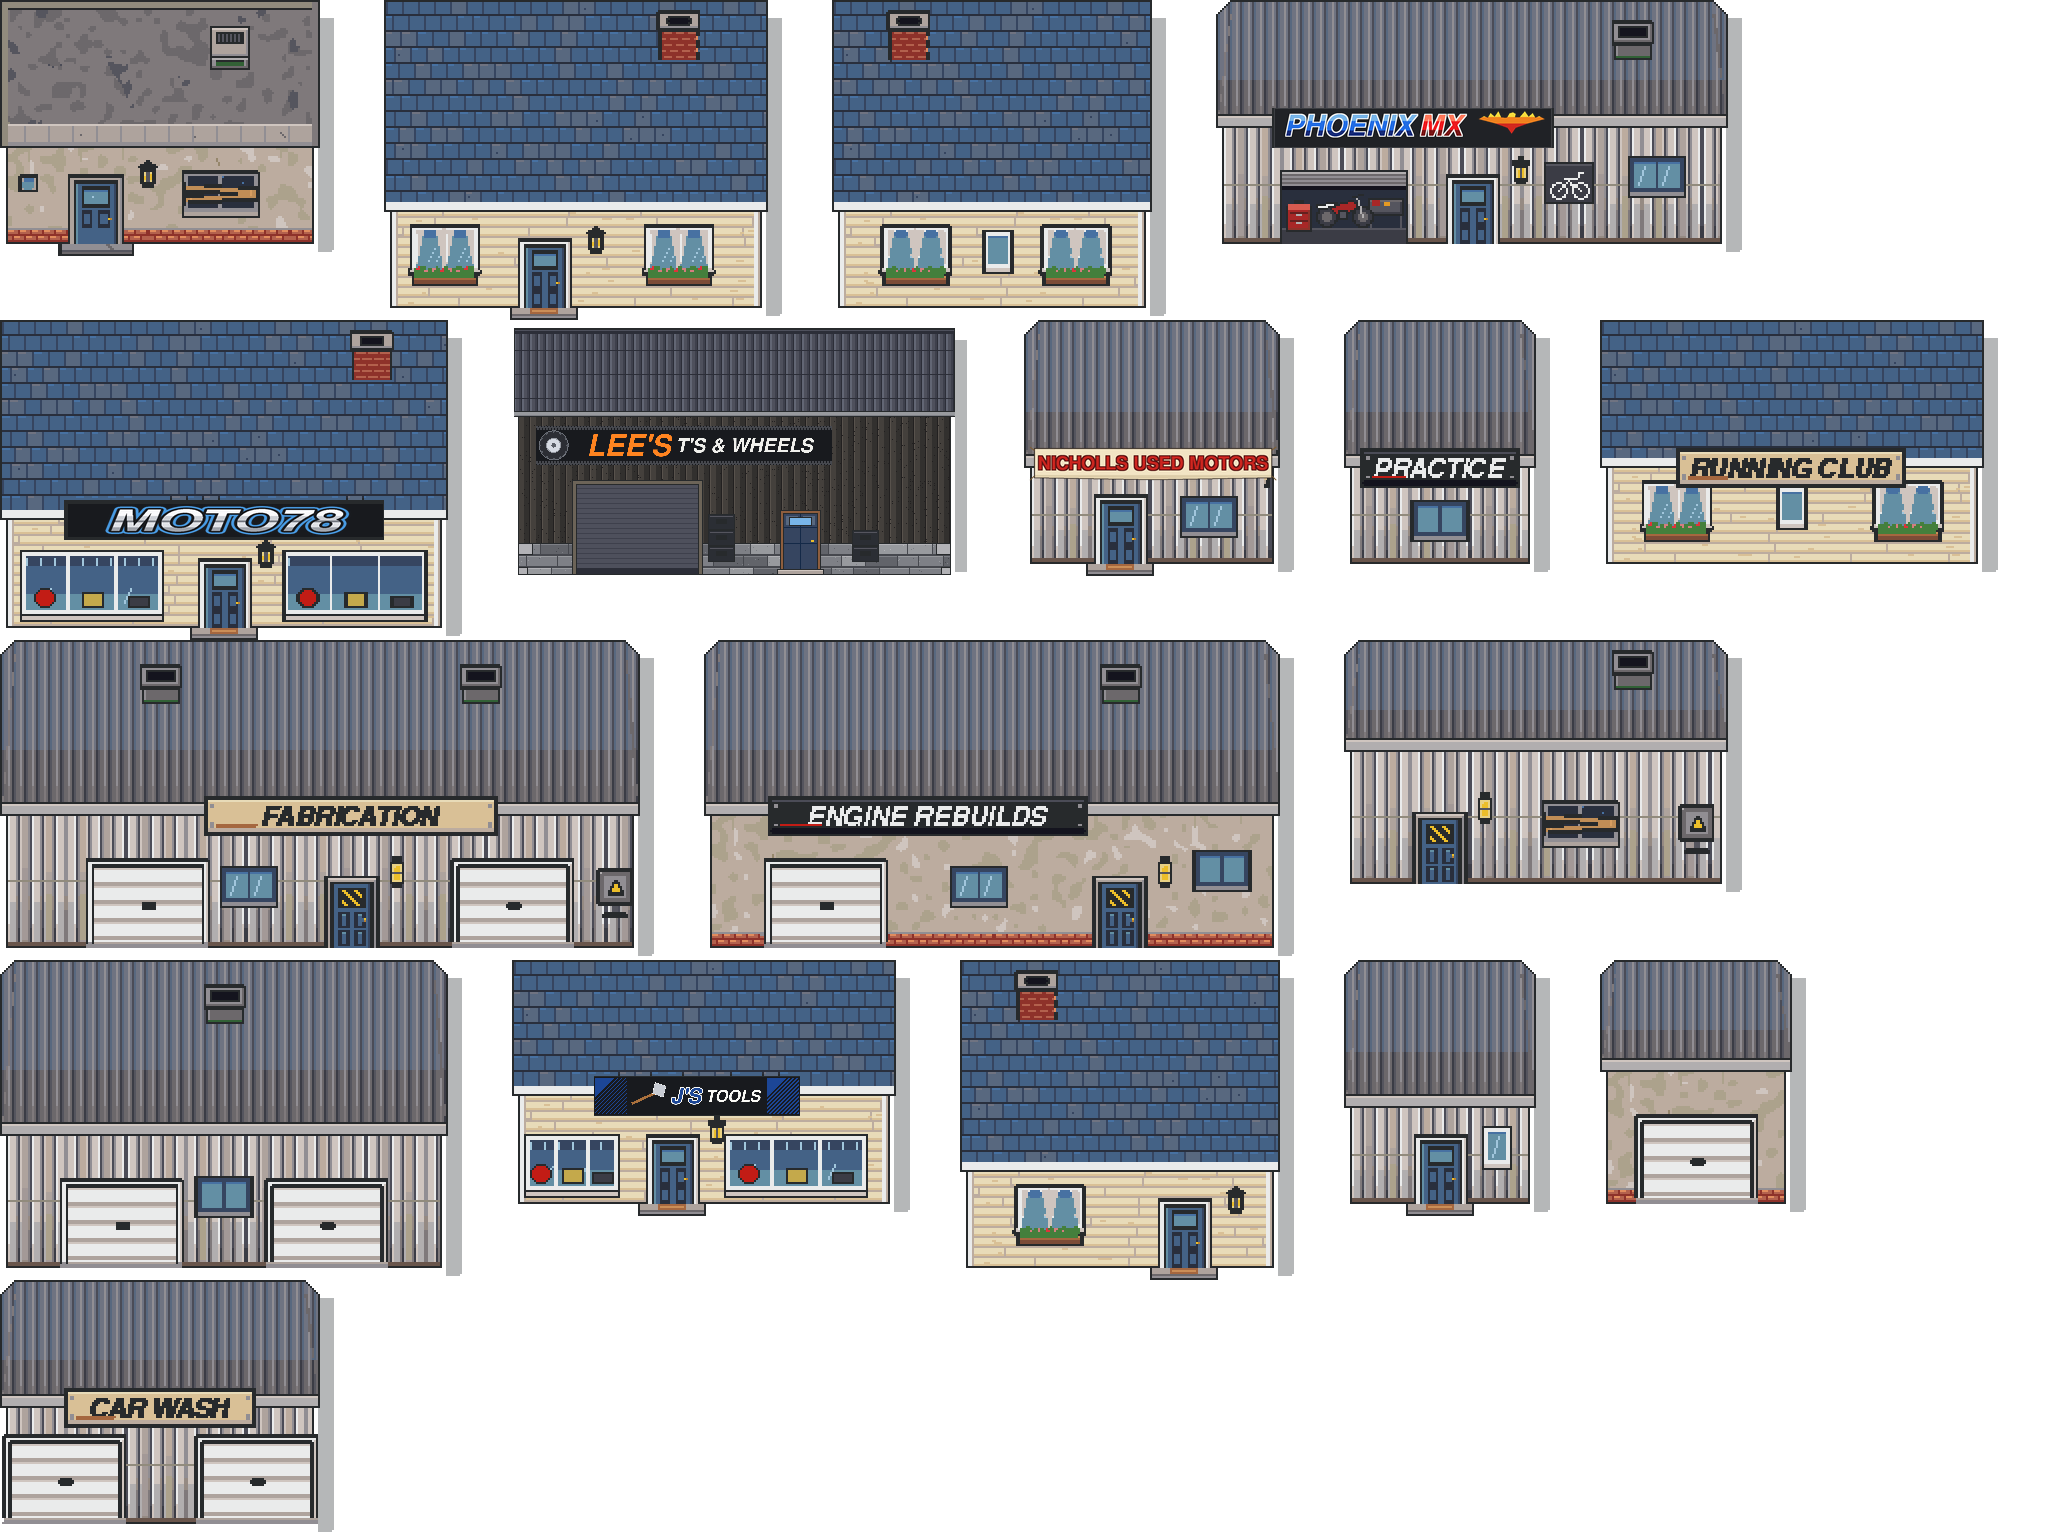
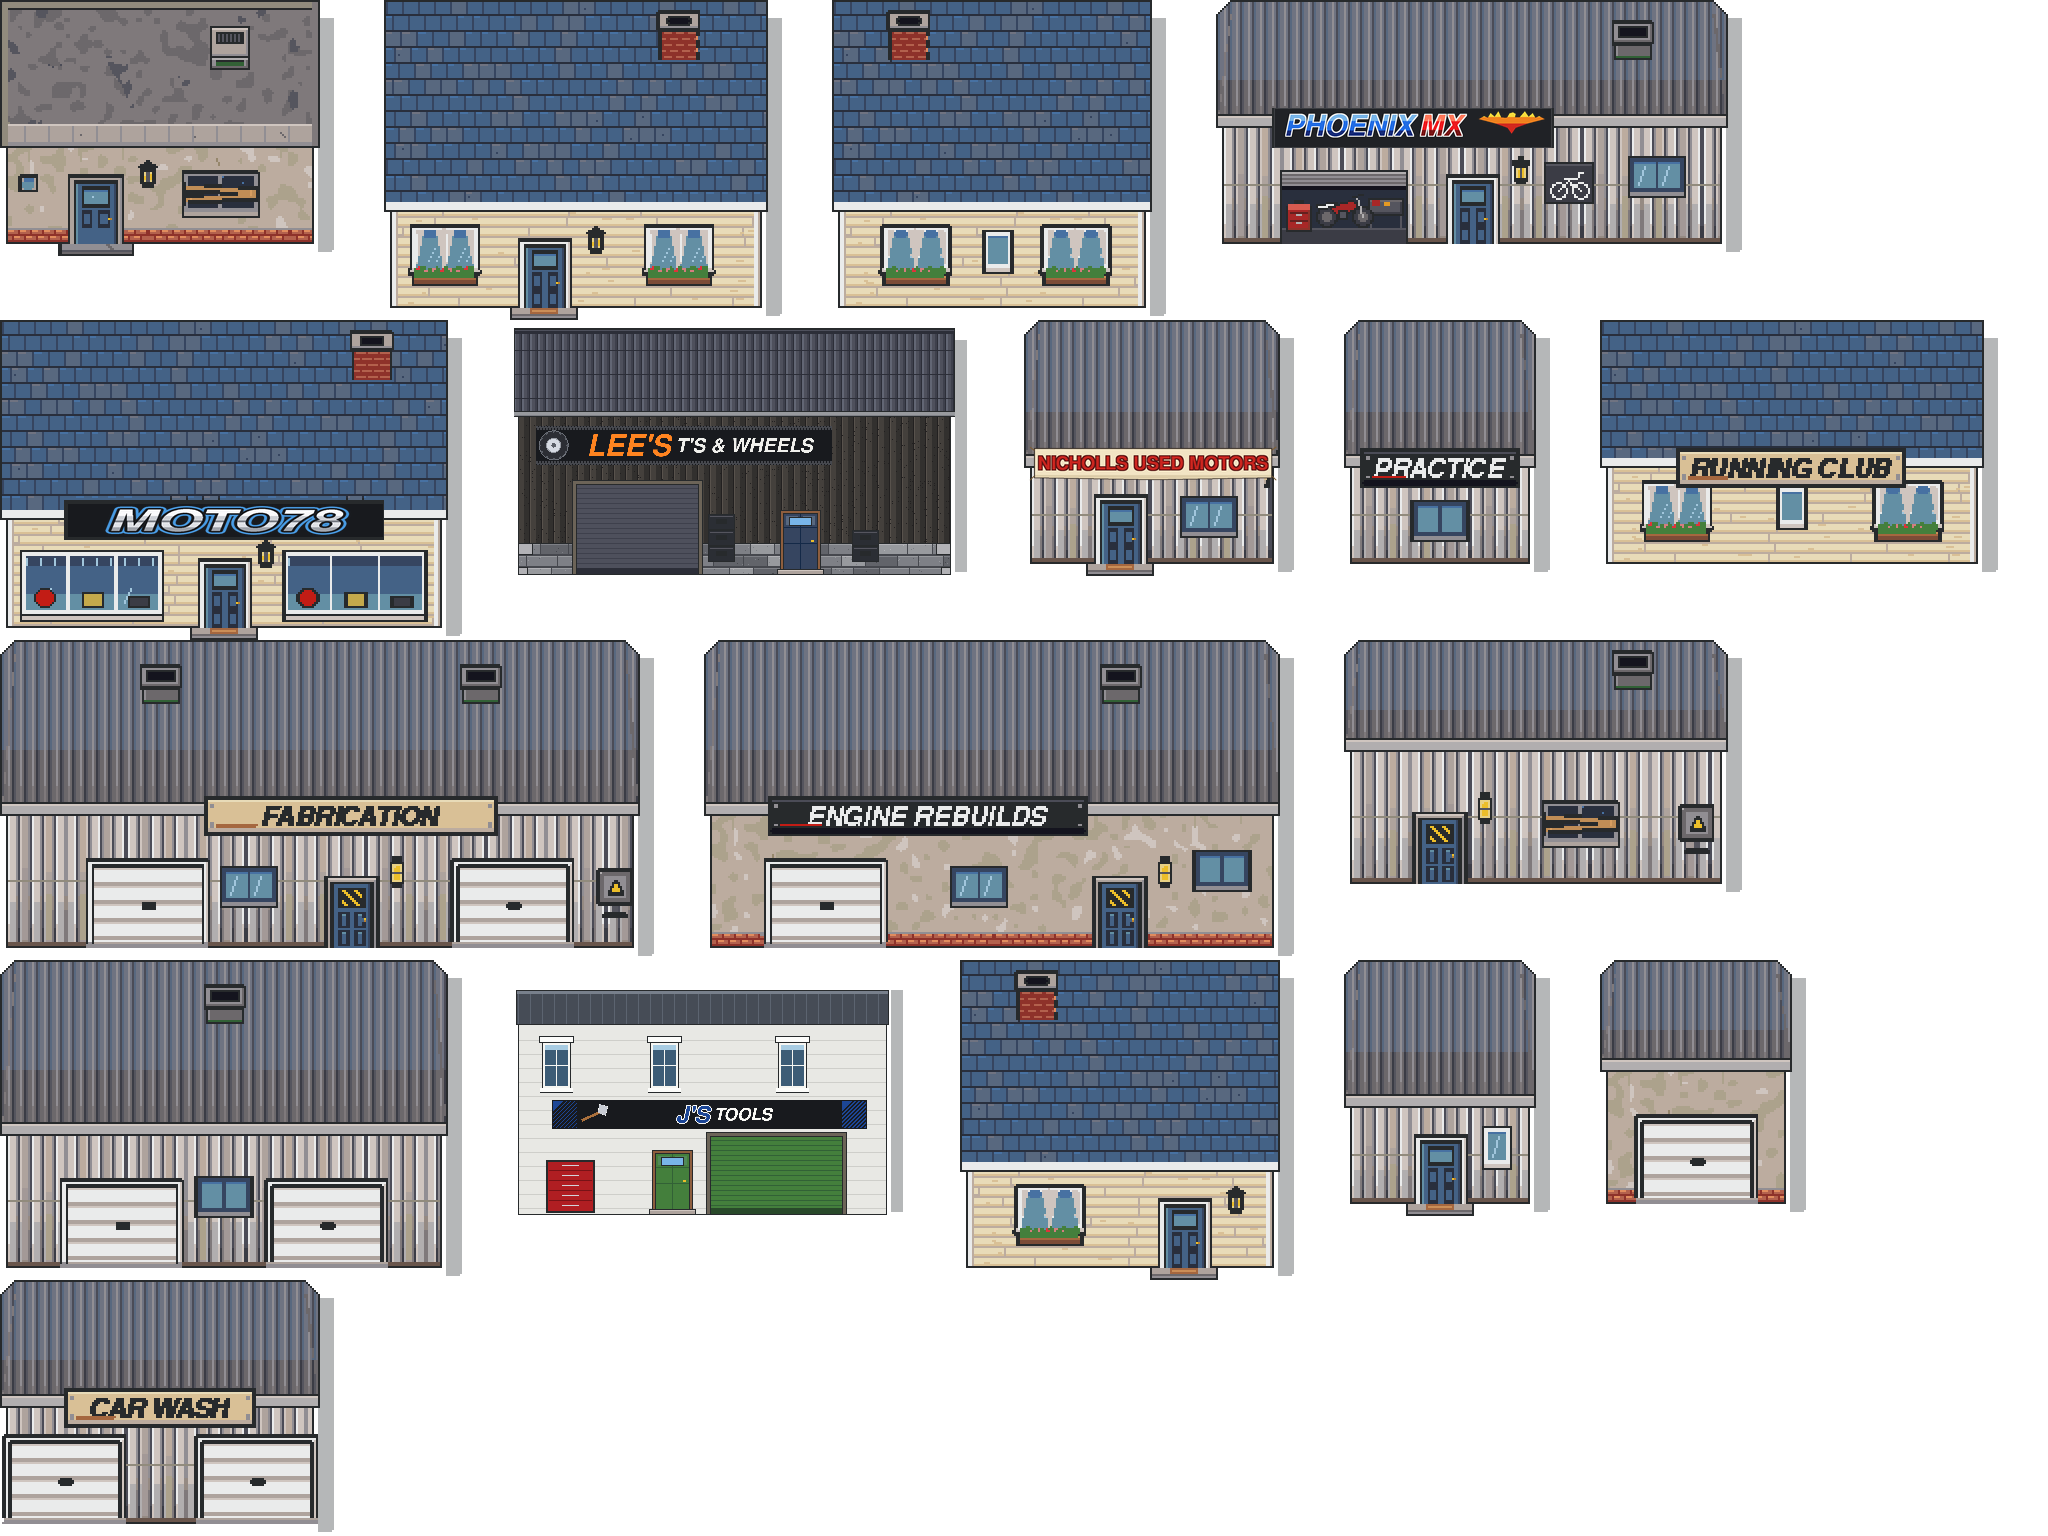
Home Town J's Tools on the Capital mews building, mirrored for J's door (Boss, 1 Nov 2026: "for Home town can J's be bottom right")
Drawn by the project's areas-2-8/tools/home_js.py; same footprint and door tile.

Claude-Session: https://claude.ai/code/session_01NrCmSZTa3AS4GD7xDnHuYk

Changed region(s): [[0.25, 0.625, 0.4688, 0.8125]]

diff --git a/tools/art/lee-and-jason.py b/tools/art/lee-and-jason.py
@@ -20,7 +20,7 @@ FONT = '/usr/share/fonts/truetype/freefont/FreeSansBoldOblique.ttf'
 # Each board on buildings-exterior-v3.png: the building's crop origin, then the board's face box in it.
 BOARDS = [
     ((512, 320), (24, 106, 319, 144), "LEE'S T'S & WHEELS"),
-    ((512, 960), (82, 117, 287, 154), "J'S TOOLS"),
+    ((512, 960), (40, 140, 353, 168), "J'S TOOLS"),
 ]
 
 
